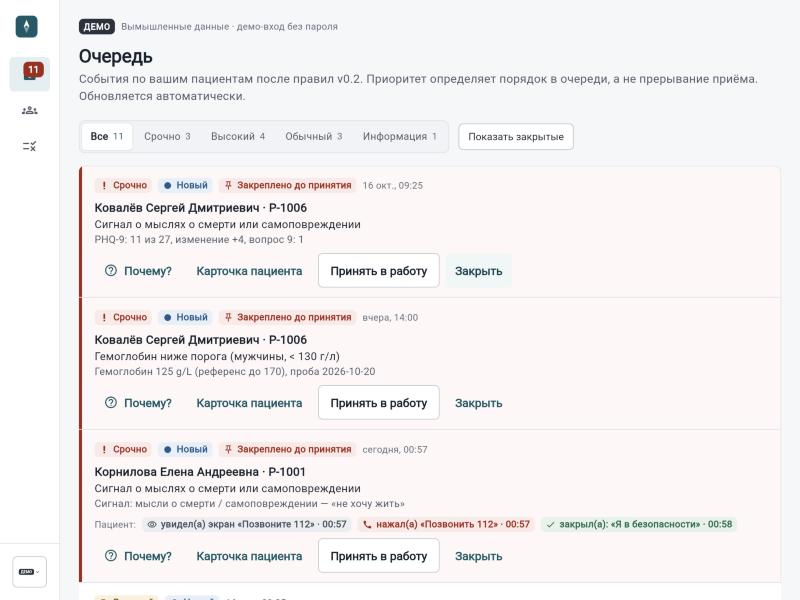
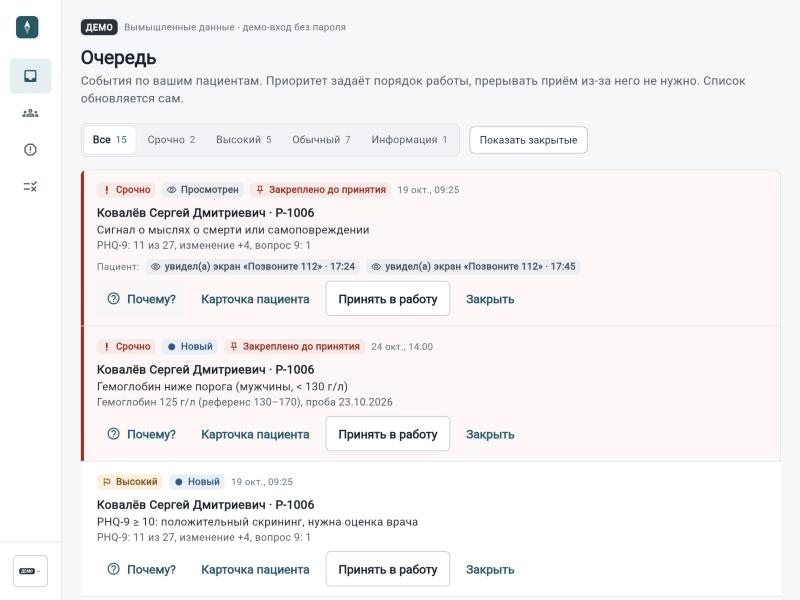
docs: fresh screenshots and evaluation README in Russian
- doctor-queue and patient-home retaken from my.onco-core.ru: the old ones
  showed texts that were reworded and lacked the doctor chat tab.
- evaluation/README.md: Russian like the rest of the docs, links to the
  final report, error analysis and saved runs; drops the stale branch note.

diff --git a/evaluation/README.md b/evaluation/README.md
@@ -1,19 +1,26 @@
-# Evaluation assets
+# Оценка извлечения фактов из текста
 
-`generated_annotations.v1.1.jsonl` — development/evaluation seed for the free-text extraction layer.
-It is intentionally evaluated separately from deterministic clinical rules.
+Здесь проверяется только слой, который превращает свободный текст пациента в факты. Клинические правила
+детерминированные и проверяются отдельно, тестами backend.
 
-Run the same extractor used by the application:
+| Что | Где |
+|---|---|
+| Размеченный набор: 155 сообщений, 172 факта | `data/generated_annotations.v1.1.jsonl`, схема разметки — `data/annotation_v0.2.schema.json` |
+| Итоговое сравнение промптов v1.1 и v1.2 | [final_model_report.md](final_model_report.md) |
+| Разбор ошибок и спорной разметки | [reports/error_analysis_v1_1.md](reports/error_analysis_v1_1.md), [reports/adjudication_v1_1.md](reports/adjudication_v1_1.md) |
+| Сохранённые метрики прогонов GigaChat | `results/gigachat_v1_1.json`, `results/gigachat_v1_2.json` |
+| Графики для презентации | `../docs/presentation/`, строятся `../scripts/plot_metrics.py` |
+
+## Как запустить
+
+Оценка идёт тем же экстрактором, что и в приложении:
 
 ```bash
 cd backend
 PYTHONPATH=src uv run clinical-compass evaluate-extractor ../evaluation/data/generated_annotations.v1.1.jsonl --out-dir ../evaluation/out
 ```
 
-Outputs:
-- `evaluation/out/metrics.json`
-- `evaluation/out/predictions.jsonl`
+Результат — `evaluation/out/metrics.json` и `evaluation/out/predictions.jsonl` (папка в git не попадает).
 
-With the default `CC_EXTRACTOR_MODE=mock` this evaluates the lexicon stub.  In the AI branch set
-`CC_EXTRACTOR_MODE=remote` and `CC_EXTRACTOR_URL` to evaluate the real model service without changing
-patient/doctor code.
+По умолчанию (`CC_EXTRACTOR_MODE=mock`) оценивается встроенный словарь. Чтобы оценить модель, задайте
+`CC_EXTRACTOR_MODE=remote` и `CC_EXTRACTOR_URL` с адресом запущенного `ai_service` (см. `../ai_service/README.md`).
